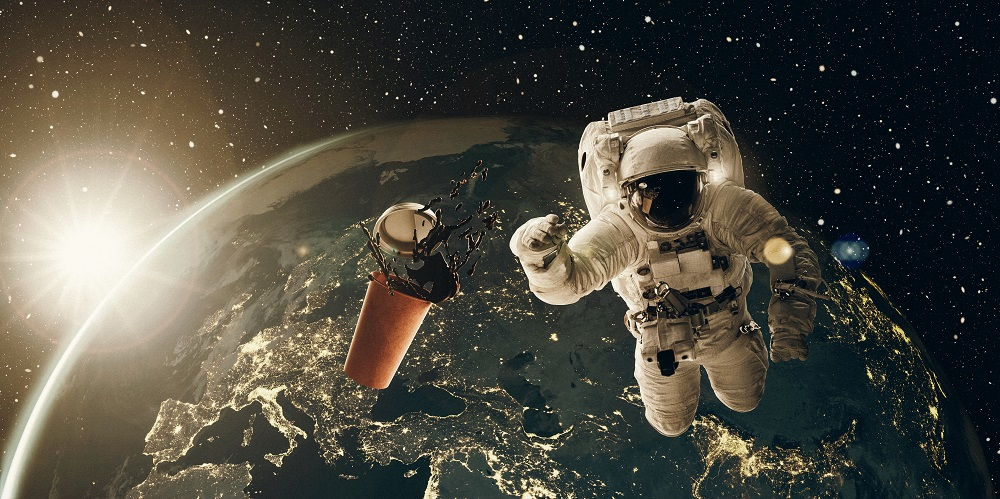
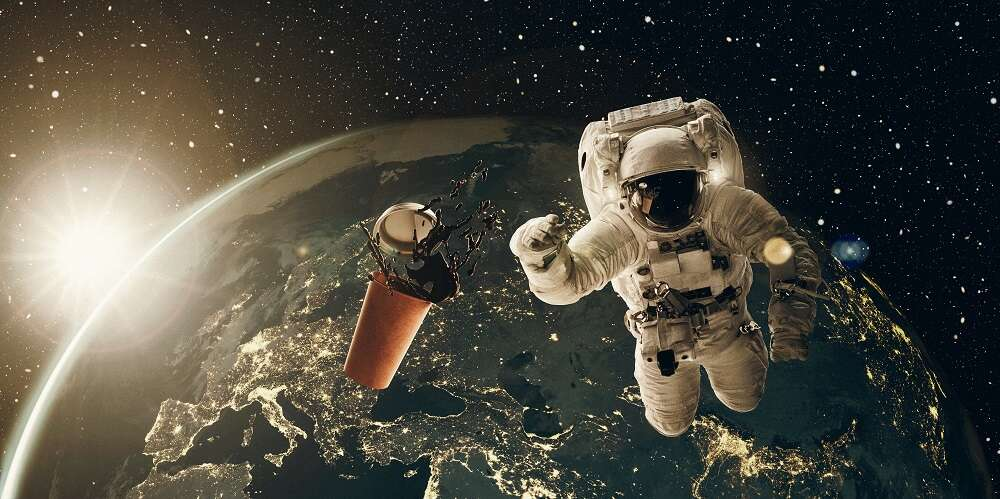
se comprimieron varias imagenes para optimizar el sitio, tambien se cambio el formato a jpg

diff --git a/tienda.html b/tienda.html
@@ -131,13 +131,13 @@
               </ol>
               <div class="carousel-inner">
                 <div class="carousel-item active">
-                  <img src="img/molino_comandante/1.webp" class="d-block w-100 " alt="...">
+                  <img src="img/molino_comandante/1.jpg" class="d-block w-100 " alt="...">
                 </div>
                 <div class="carousel-item">
-                  <img src="img/molino_comandante/2.webp" class="d-block w-100" alt="...">
+                  <img src="img/molino_comandante/2.jpg" class="d-block w-100" alt="...">
                 </div>
                 <div class="carousel-item">
-                  <img src="img/molino_comandante/3.webp" class="d-block w-100" alt="...">
+                  <img src="img/molino_comandante/3.jpg" class="d-block w-100" alt="...">
                 </div>
               </div>
               <a class="carousel-control-prev" href="#carouselExampleIndicators" role="button" data-bs-slide="prev">
